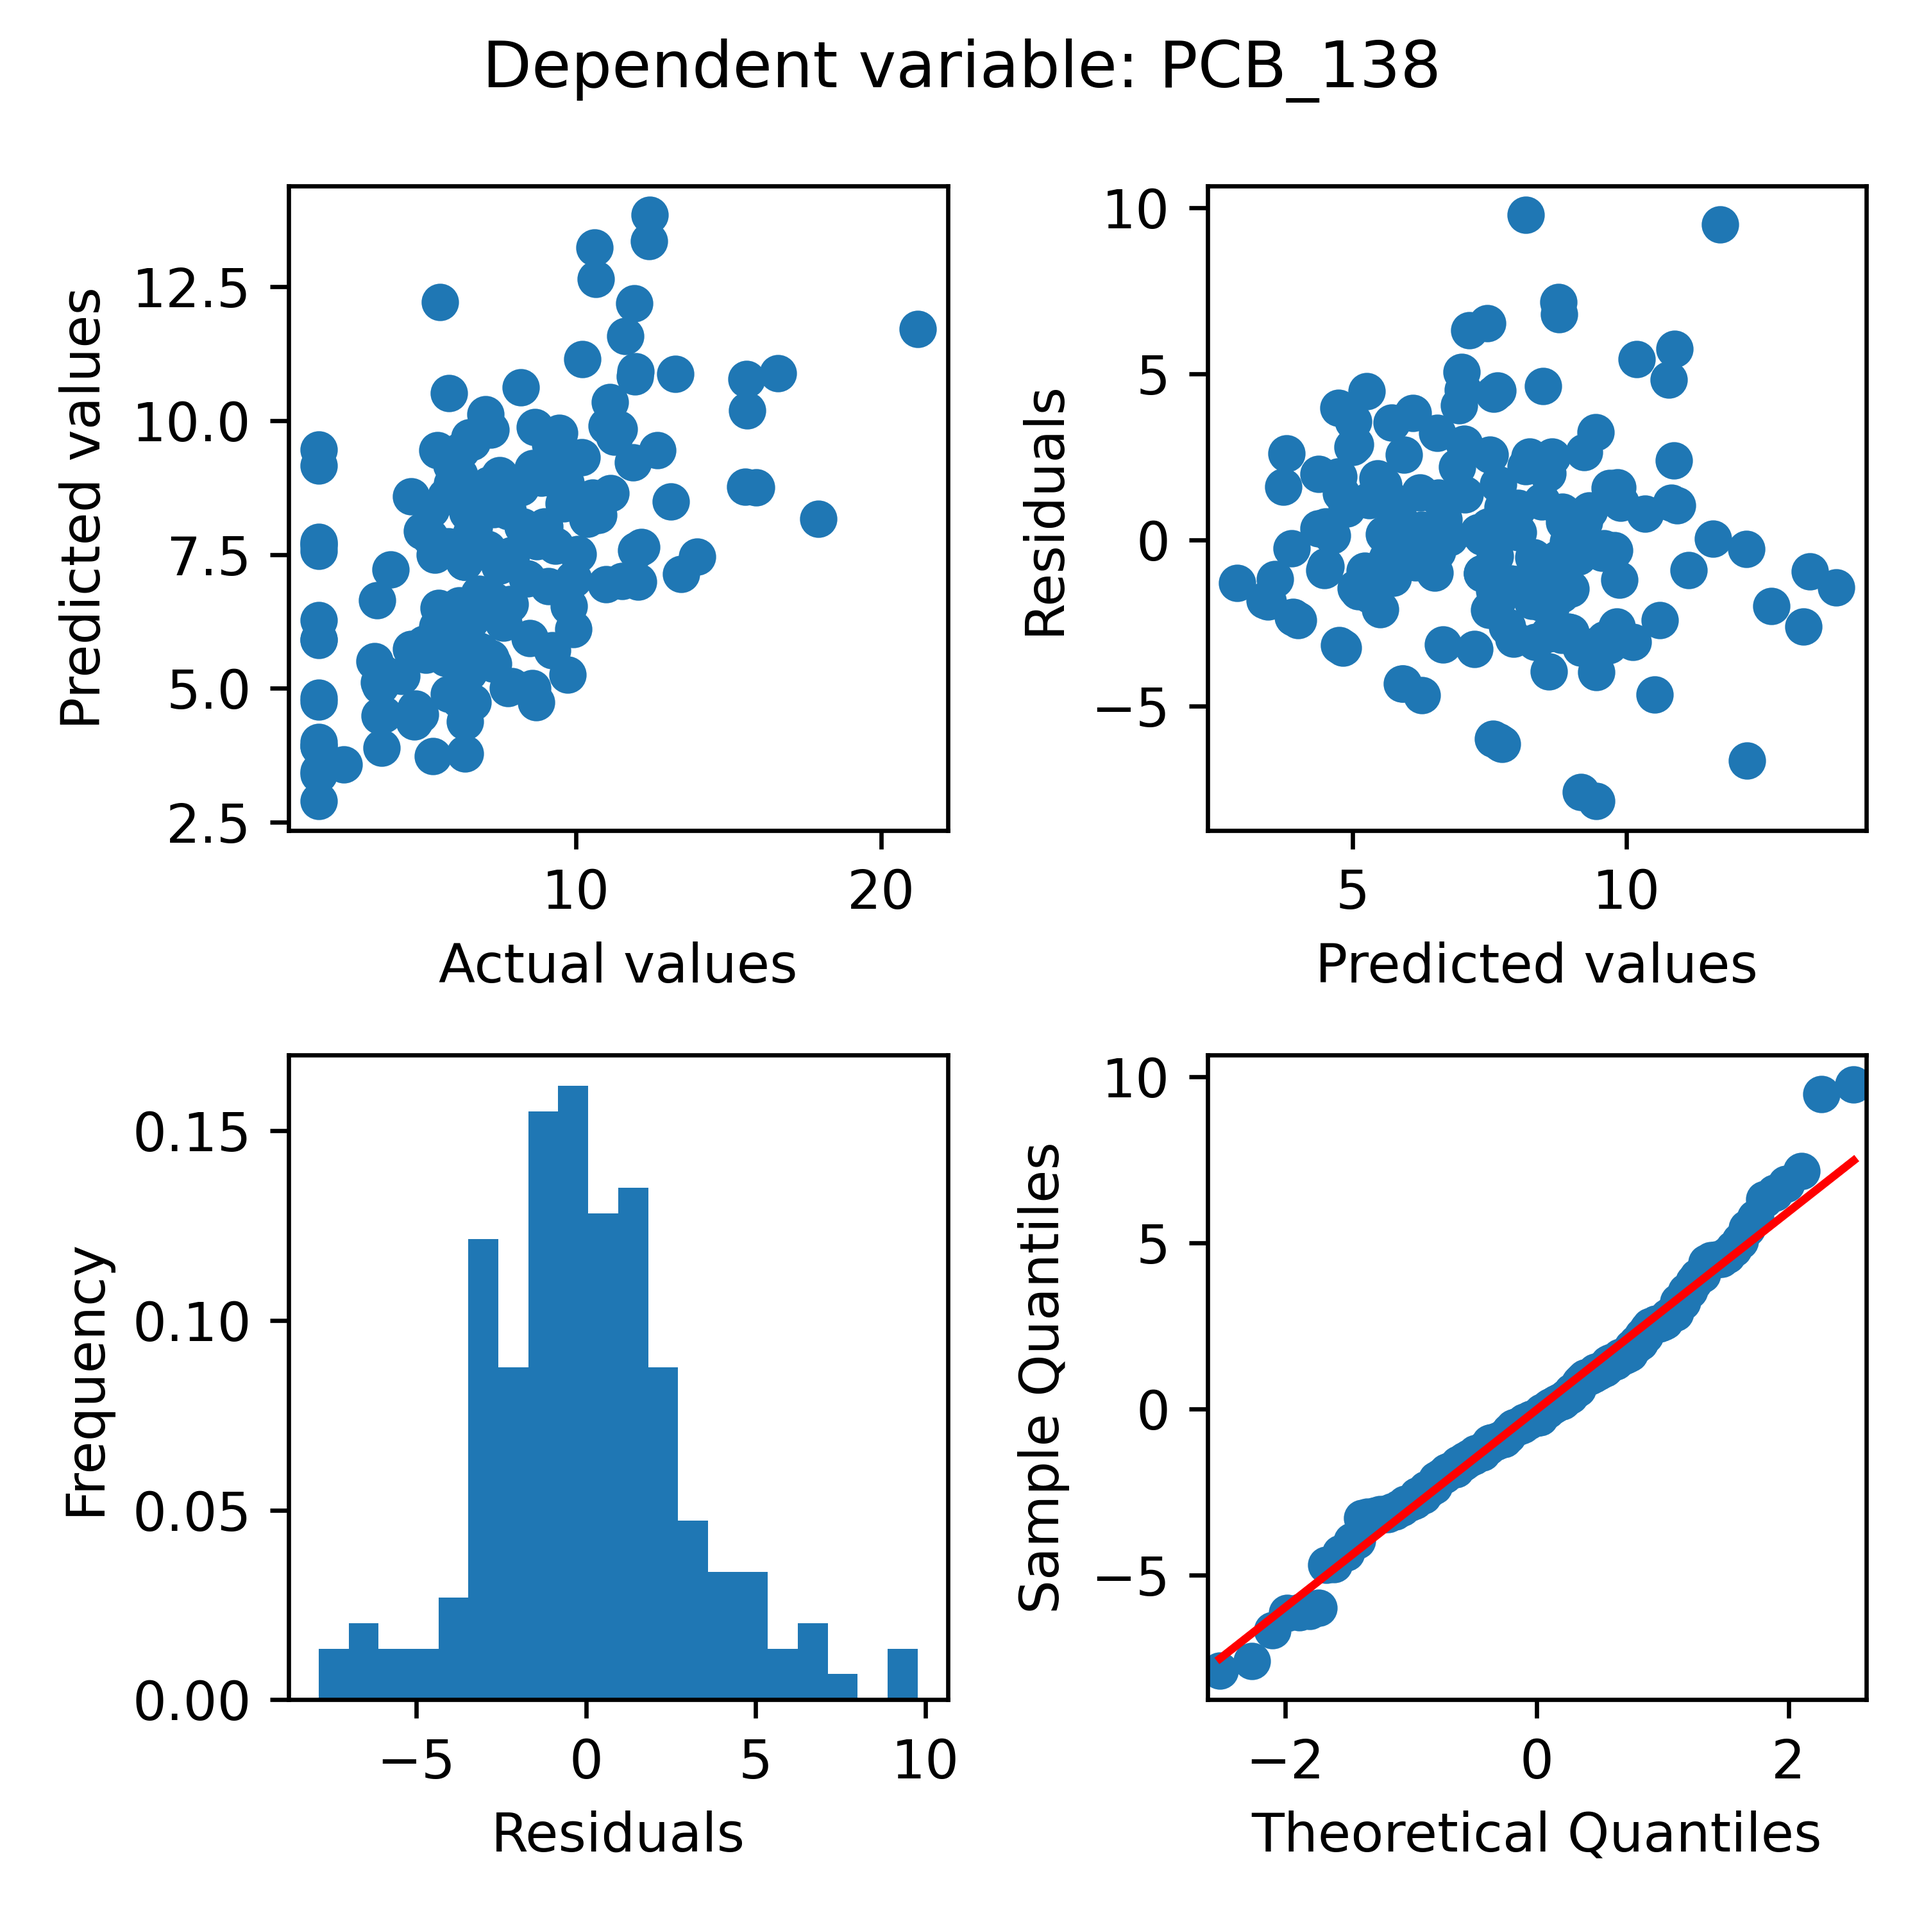
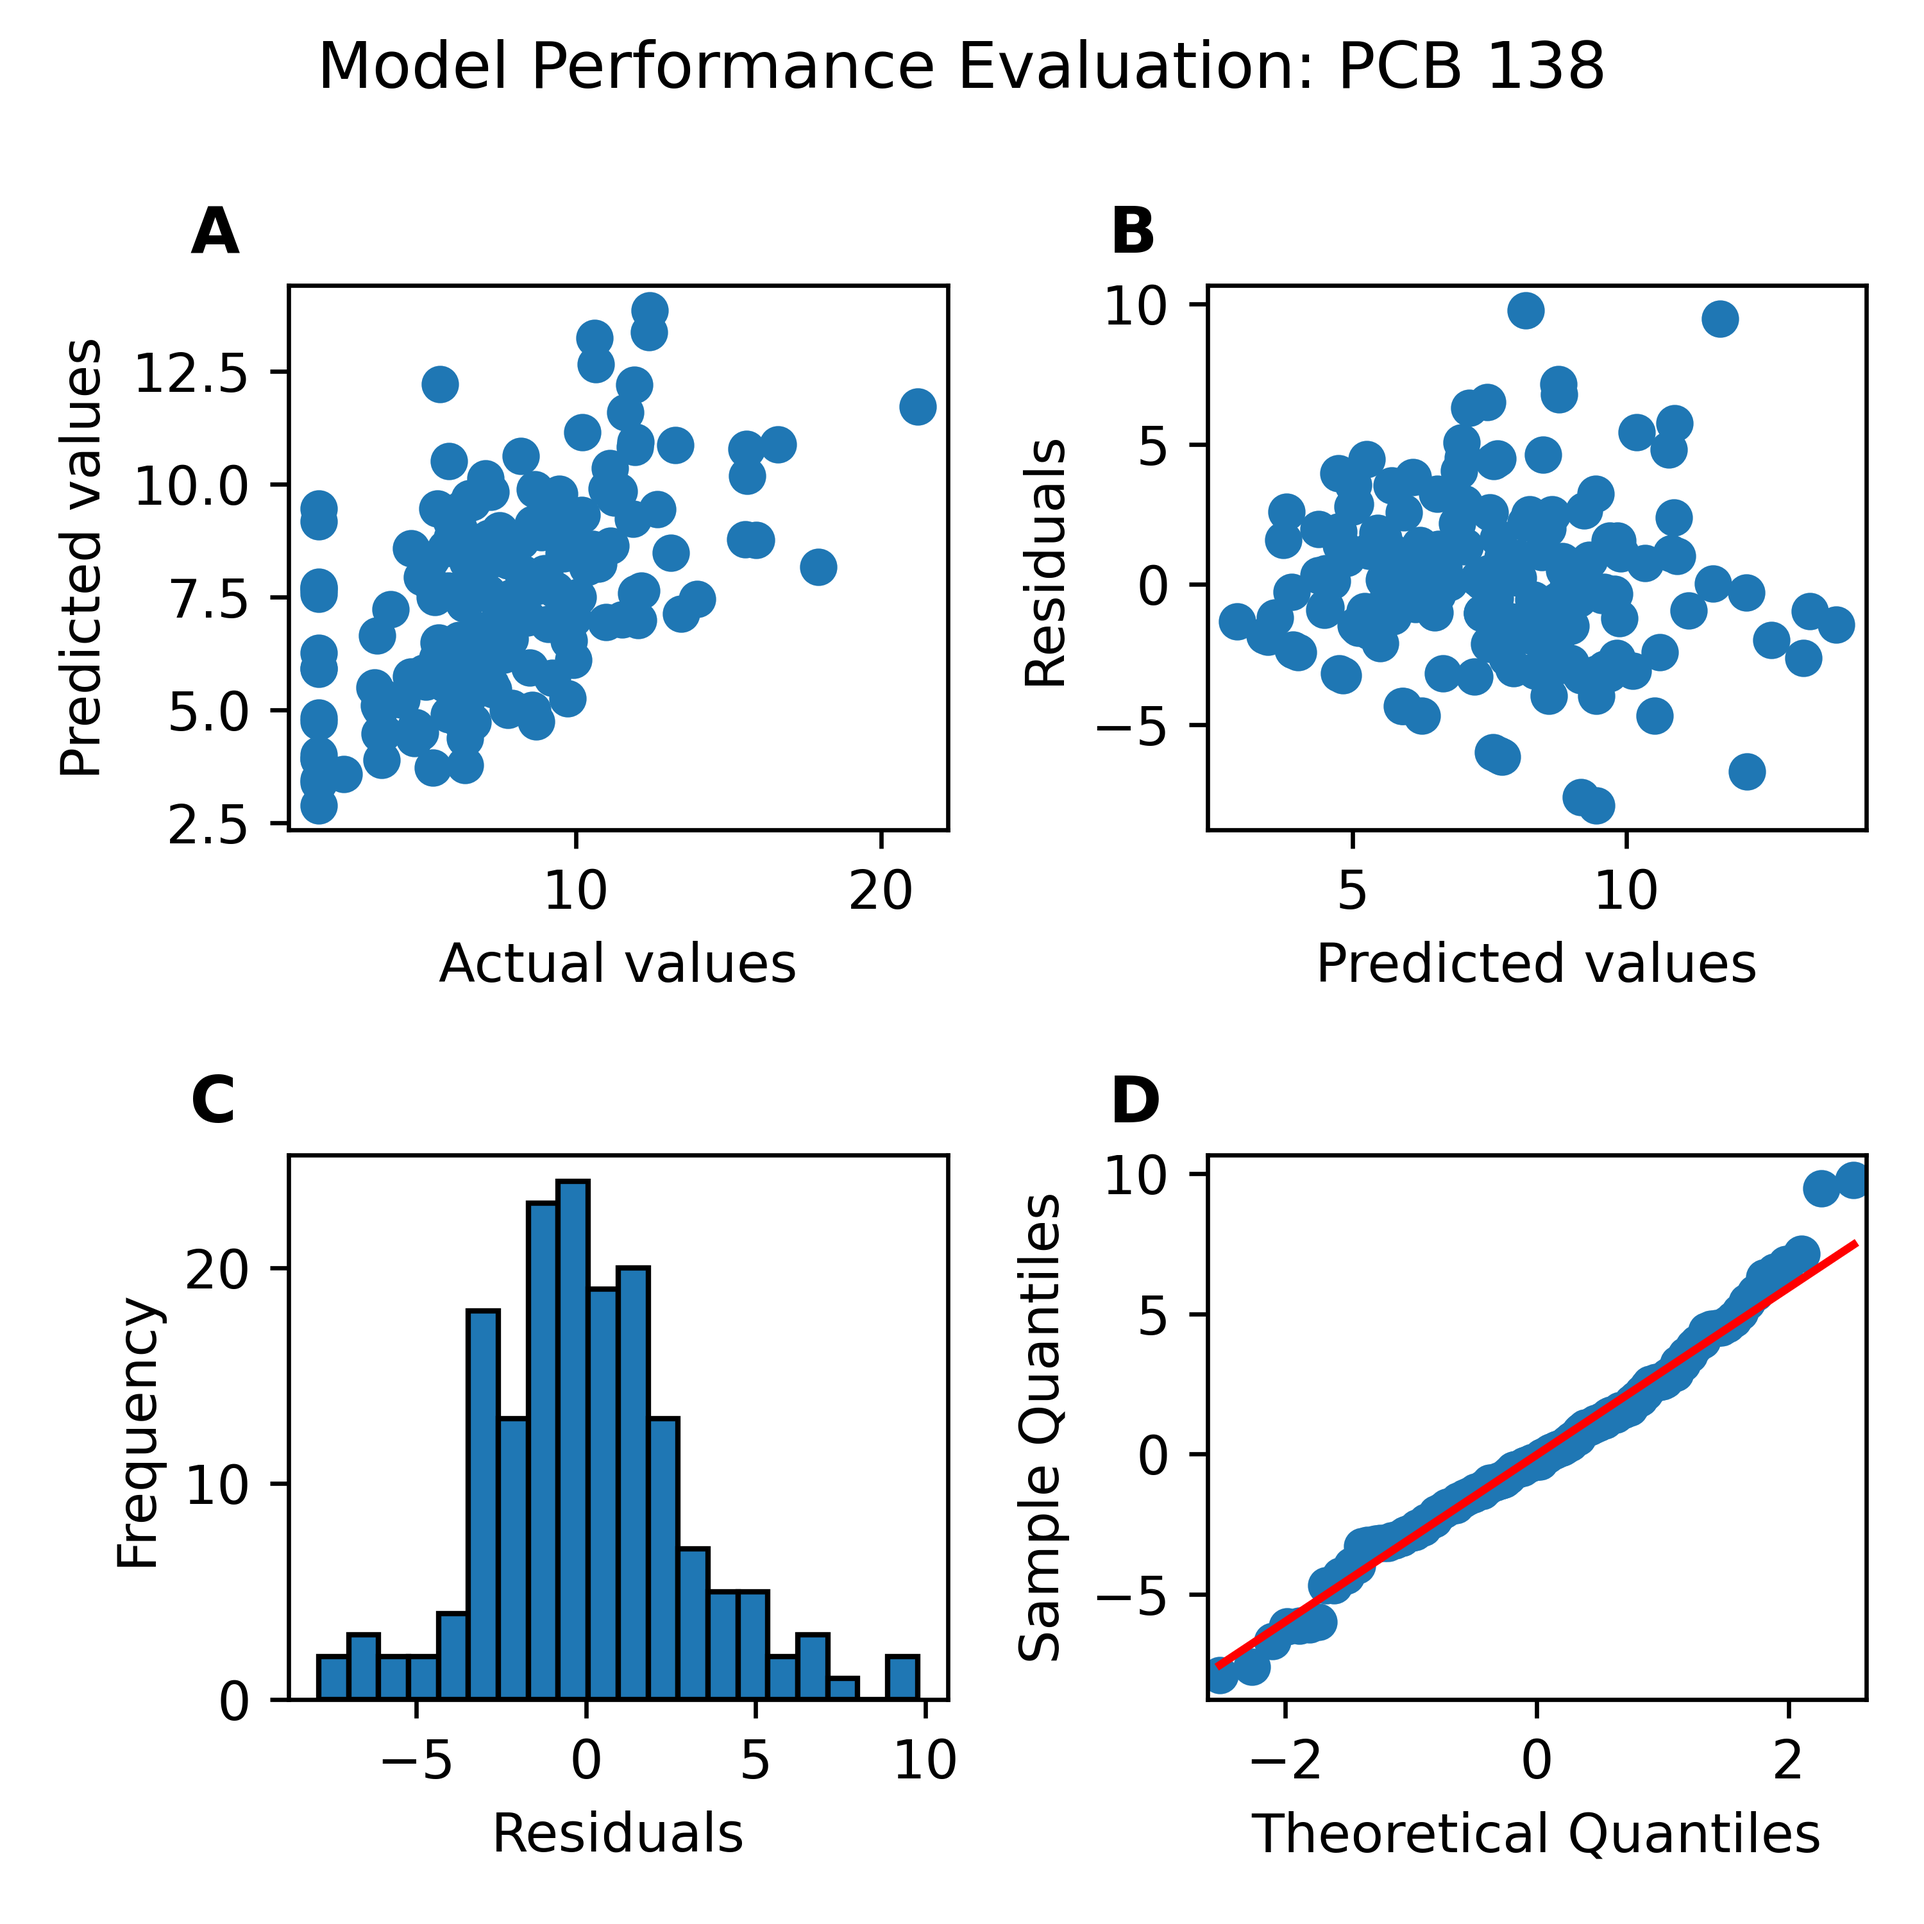
update

diff --git a/src/common_functions.py b/src/common_functions.py
@@ -329,21 +329,65 @@ def plot_diagnostics(
     axs[0, 0].scatter(np.sqrt(df[dependent_variable]), fitted_values)
     axs[0, 0].set_xlabel("Actual values")
     axs[0, 0].set_ylabel("Predicted values")
+    axs[0, 0].text(
+        -0.15,
+        1.15,
+        "A",
+        transform=axs[0, 0].transAxes,
+        fontsize=12,
+        fontweight="bold",
+        va="top",
+    )
 
     residuals = model.resid_response
 
     axs[0, 1].scatter(fitted_values, residuals)
     axs[0, 1].set_xlabel("Predicted values")
     axs[0, 1].set_ylabel("Residuals")
+    axs[0, 1].text(
+        -0.15,
+        1.15,
+        "B",
+        transform=axs[0, 1].transAxes,
+        fontsize=12,
+        fontweight="bold",
+        va="top",
+    )
 
     # sns.histplot(residuals, kde=True, ax=axs[1, 0])
-    axs[1, 0].hist(residuals, bins=20, density=True)
+    axs[1, 0].hist(
+        residuals,
+        bins=20,
+        density=False,
+        edgecolor="black",
+        linewidth=1,
+    )
     axs[1, 0].set_xlabel("Residuals")
     axs[1, 0].set_ylabel("Frequency")
+    axs[1, 0].text(
+        -0.15,
+        1.15,
+        "C",
+        transform=axs[1, 0].transAxes,
+        fontsize=12,
+        fontweight="bold",
+        va="top",
+    )
 
     sm.qqplot(residuals, line="s", ax=axs[1, 1])
+    axs[1, 1].text(
+        -0.15,
+        1.15,
+        "D",
+        transform=axs[1, 1].transAxes,
+        fontsize=12,
+        fontweight="bold",
+        va="top",
+    )
 
-    plt.suptitle(f"Dependent variable: {dependent_variable}")
+    plt.suptitle(
+        f"Model Performance Evaluation: {dependent_variable.replace('_', ' ')}"
+    )
     plt.tight_layout()
 
     if save_to_disk:
